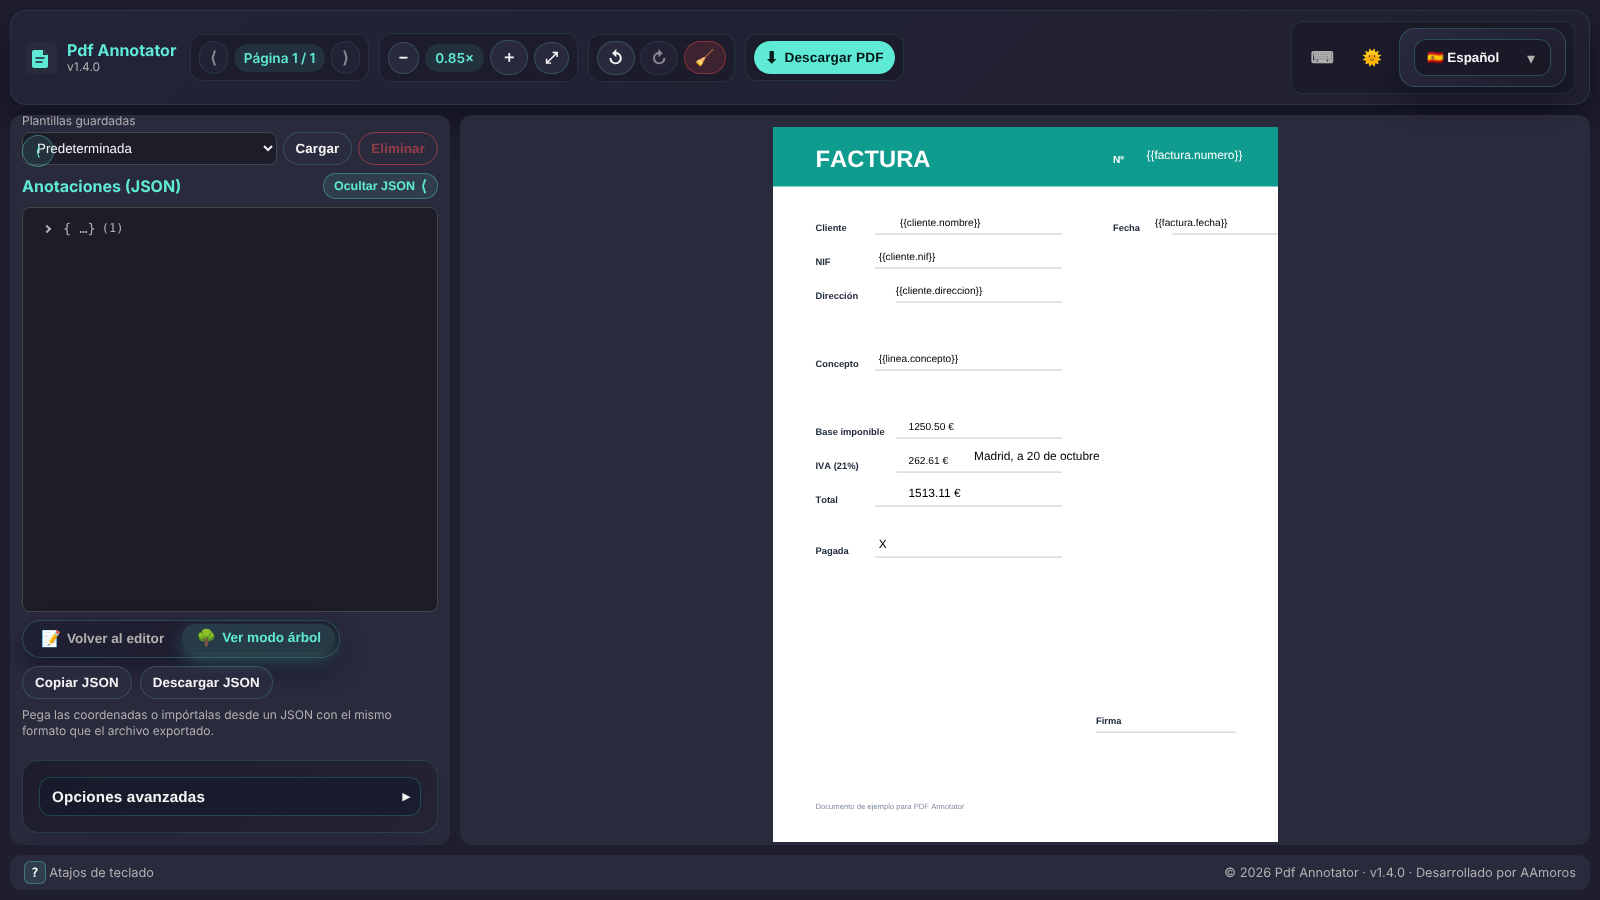
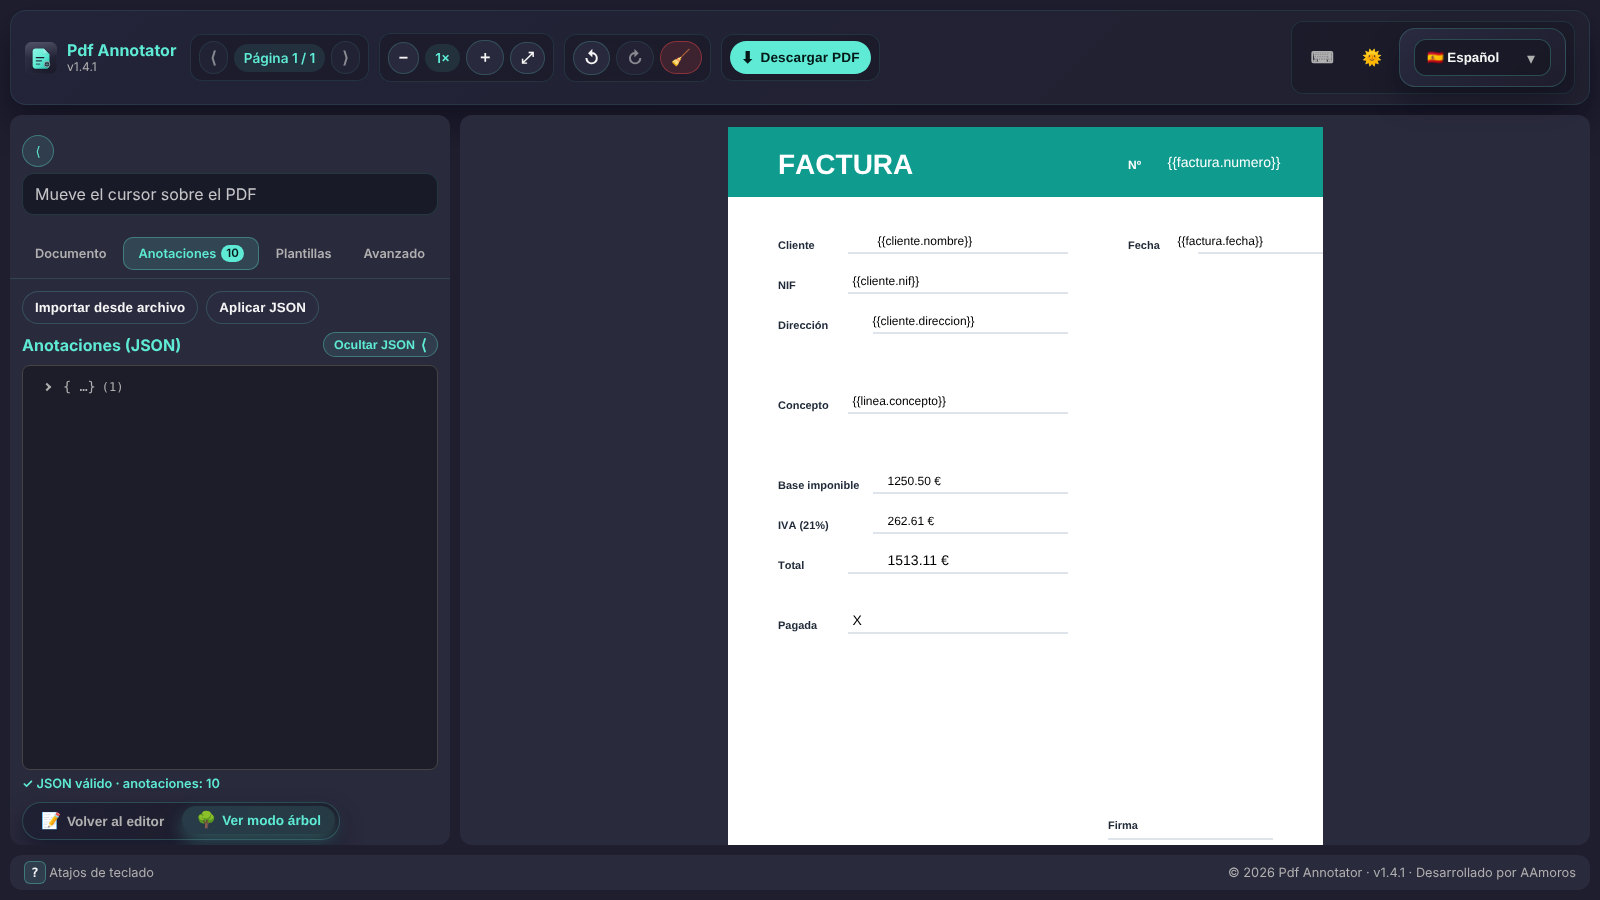
Refresh landing preview and README screenshots for the tabbed sidebar
Claude-Session: https://claude.ai/code/session_01YZU8XrVQFxd1pAR7vZACGx

diff --git a/README.md b/README.md
@@ -84,7 +84,7 @@ Arrastra un PDF o haz clic para seleccionarlo. El idioma se cambia arriba a la d
 | Zona | Qué hay |
 | --- | --- |
 | **Cabecera** (una fila) | Página anterior/siguiente · zoom `−`/`+`/**Ajustar** · deshacer/rehacer/limpiar · **Descargar PDF** · **Atajos** · tema · idioma. |
-| **Panel lateral** | Cursor en coordenadas PDF · cambiar de documento · importar/aplicar JSON · **miniaturas** · **plantillas** · **editor JSON** (texto/árbol, copiar, descargar) · **opciones avanzadas** (fuentes, guías, campos extra del JSON). Se minimiza con `B`. |
+| **Panel lateral** (4 pestañas) | Cursor en coordenadas PDF siempre visible, y debajo: **Documento** (cambiar de PDF, miniaturas) · **Anotaciones** (editor JSON en texto o árbol, importar/aplicar, copiar, descargar; con contador) · **Plantillas** · **Avanzado** (fuentes, guías y campos extra del JSON). Se navega con ratón o flechas ←/→. Se minimiza con `B`. |
 | **Visor** | Página con capa de anotaciones. Clic para crear, clic sobre una anotación para editarla, arrastrar para moverla. Scroll propio. |
 | **Pie** | Recordatorio de `?` y versión. |
 
